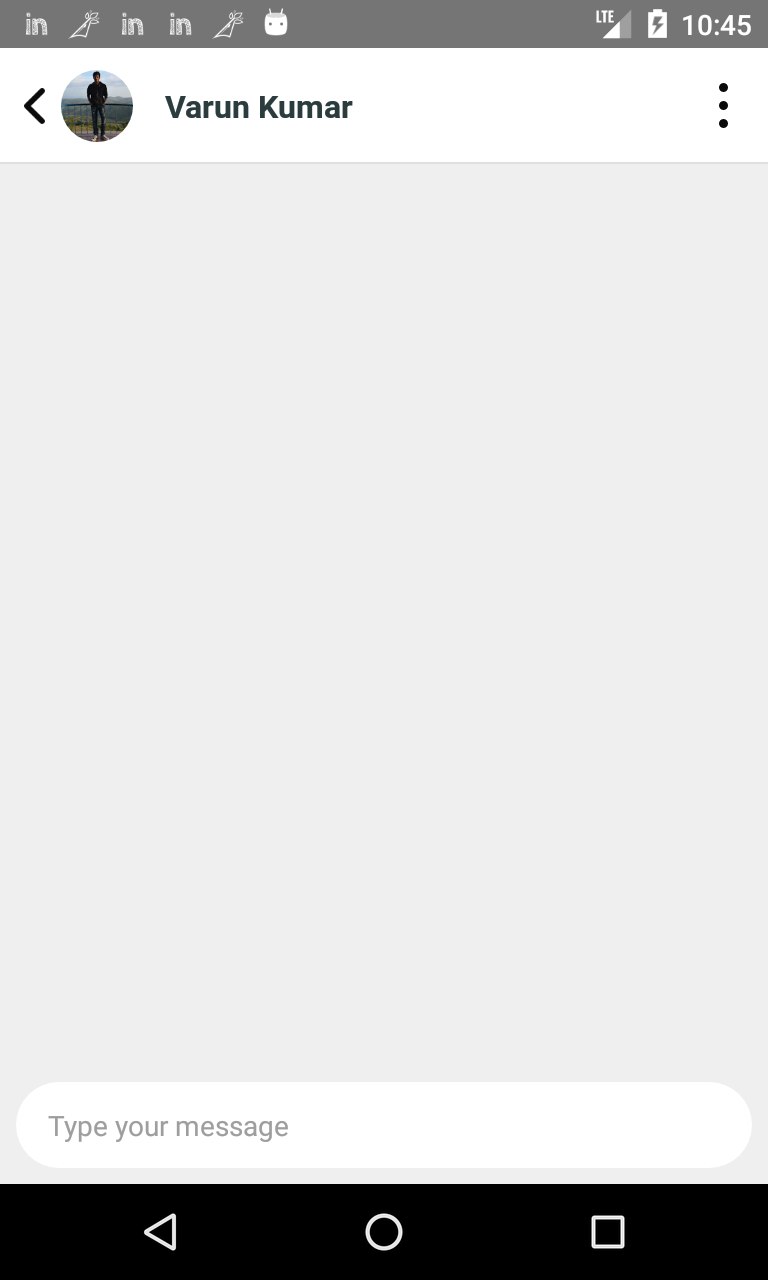
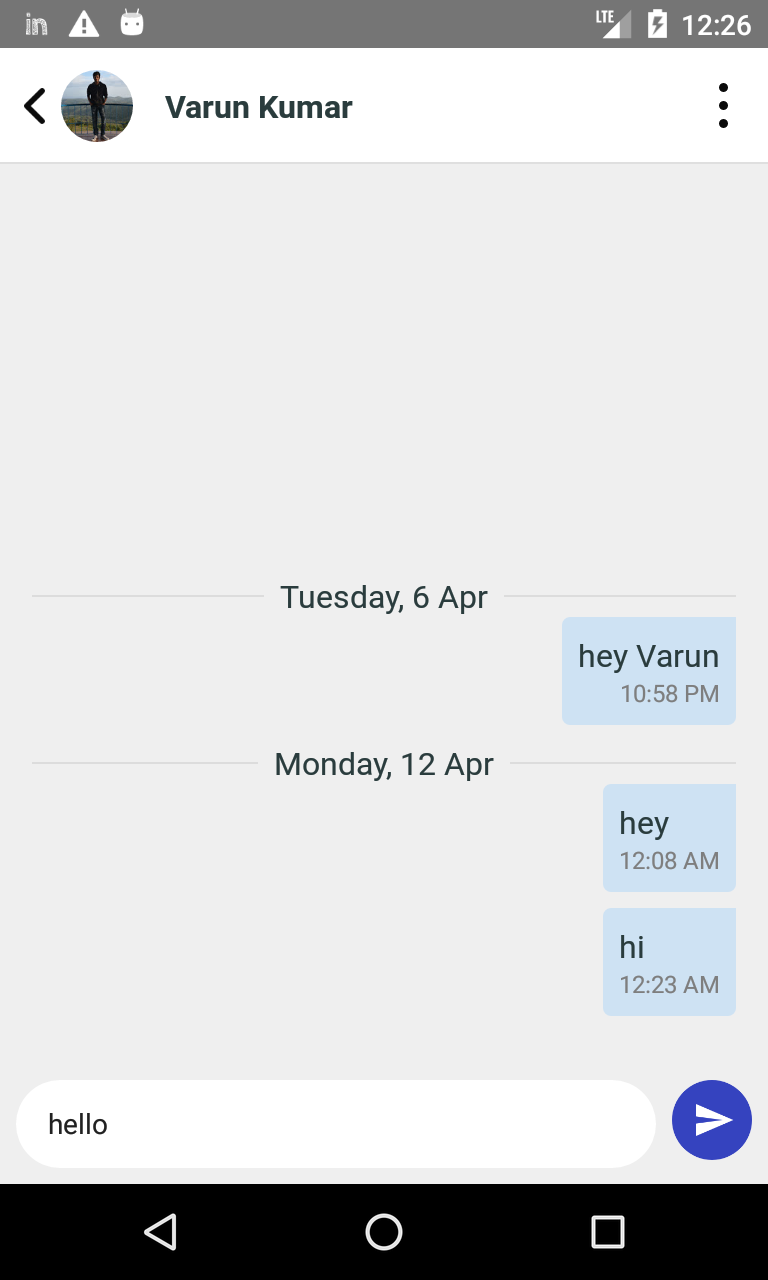
displaying chat bubbles in ChatDetails

diff --git a/src/components/chat/ChatDetails.js b/src/components/chat/ChatDetails.js
@@ -1,4 +1,4 @@
-import React, { useState } from 'react';
+import React, { useState, useEffect } from 'react';
 import { SafeAreaView, StyleSheet, View, Image, FlatList } from 'react-native';
 import firestore from '@react-native-firebase/firestore';
 import auth from '@react-native-firebase/auth';
@@ -11,19 +11,124 @@ import Screens from '../../common/Screens';
 import {
   CustomImageButton,
   NavigationHeader,
-  ThreeDotsMenuComponent
+  ThreeDotsMenuComponent,
+  CustomActivityIndicator
 } from '../lib';
 import { backIcon, logoutIcon, threeDotsMenuIcon } from '../../images';
 import { goBack } from '../../utils/navigation';
 import ChatInput from './ChatInput';
 import { FIRESTORE_COLLECTIONS, MESSAGE_TYPE } from '../../utils/constants';
 import { logErrorWithMessage } from '../../utils/logger';
+import ChatMessageFlatListItem from './ChatMessageFlatListItem';
+
+const MESSAGE_LIMIT = 15;
+
+// only last 15 (MESSAGE_LIMIT) are listened in real time
+// this function is responsible for merging recent chats (retrieved via live listener)
+const getMergedRecentChats = (previousRecentChats, recentChats) => {
+  if (previousRecentChats.length > 0) {
+    const newRecentChats = [];
+    for (let i = 0; i < recentChats.length; i++) {
+      if (recentChats[i].messageId === previousRecentChats[0].messageId) {
+        break;
+      }
+      newRecentChats.push(recentChats[i]);
+    }
+    return [...newRecentChats, ...previousRecentChats];
+  } else {
+    return recentChats;
+  }
+};
 
 const ChatDetails = ({ route }) => {
   const { chat } = route.params;
 
   const [menuVisible, setMenuVisible] = useState(false);
   const [inputMessage, setInputMessage] = useState('');
+
+  // Firestore cursor is not supported in query.onSnapshot so maintaining two chat list
+  // oldChats -> chat list via cursor, recentChats -> chat list via live listener
+  const [oldChats, setOldChats] = useState([]);
+  const [recentChats, setRecentChats] = useState([]);
+
+  // if true, show a loader at the top of chat list
+  const [moreChatsAvailable, setMoreChatsAvailable] = useState(true);
+
+  const getChatRef = () => {
+    const uid = auth().currentUser.uid;
+    return firestore()
+      .collection(FIRESTORE_COLLECTIONS.USERS)
+      .doc(uid)
+      .collection(FIRESTORE_COLLECTIONS.CHATS)
+      .doc(chat.id);
+  };
+
+  useEffect(() => {
+    const query = getChatRef()
+      .collection(FIRESTORE_COLLECTIONS.MESSAGES)
+      .orderBy('createdAt', 'desc')
+      .limit(MESSAGE_LIMIT);
+    const listener = query.onSnapshot(
+      querySnapshot => {
+        let chats = [];
+        querySnapshot.forEach(snapshot => {
+          chats.push(snapshot.data());
+        });
+        // merge recentChats & chats
+        setRecentChats(previousRecentChats =>
+          getMergedRecentChats(previousRecentChats, chats)
+        );
+        if (chats.length < MESSAGE_LIMIT) {
+          setMoreChatsAvailable(false);
+        }
+      },
+      error => {
+        logErrorWithMessage(error.message, 'ChatDetails.query.onSnapshot');
+      }
+    );
+
+    return () => {
+      // unsubscribe listener
+      listener();
+    };
+  }, []);
+
+  const onChatListEndReached = () => {
+    if (!moreChatsAvailable) {
+      return;
+    }
+    let startAfterTime;
+    if (oldChats.length > 0) {
+      startAfterTime = oldChats[oldChats.length - 1].createdAt;
+    } else if (recentChats.length > 0) {
+      startAfterTime = recentChats[recentChats.length - 1].createdAt;
+    } else {
+      setMoreChatsAvailable(false);
+      return;
+    }
+    // query data using cursor
+    getChatRef()
+      .startAfter(startAfterTime)
+      .limit(MESSAGE_LIMIT)
+      .get()
+      .then(querySnapshot => {
+        let chats = [];
+        querySnapshot.forEach(snapshot => {
+          chats.push(snapshot.data());
+        });
+        if (chats.length === 0) {
+          setMoreChatsAvailable(false);
+        } else {
+          setOldChats([...oldChats, ...chats]);
+        }
+      })
+      .catch(error => {
+        logErrorWithMessage(
+          error.message,
+          'ChatDetails.onChatListEndReached.getGuestChatMessagesQuery'
+        );
+      });
+  };
 
   const onMenuToggle = () => {
     setMenuVisible(!menuVisible);
@@ -60,12 +165,7 @@ const ChatDetails = ({ route }) => {
   const onDeleteChatPress = () => {};
 
   const onMessageSubmit = async () => {
-    const uid = auth().currentUser.uid;
-    const chatRef = firestore()
-      .collection(FIRESTORE_COLLECTIONS.USERS)
-      .doc(uid)
-      .collection(FIRESTORE_COLLECTIONS.CHATS)
-      .doc(chat.id);
+    const chatRef = getChatRef();
     // post message
     try {
       await chatRef.update({
@@ -78,7 +178,8 @@ const ChatDetails = ({ route }) => {
       await chatRef.collection(FIRESTORE_COLLECTIONS.MESSAGES).add({
         createdAt: new Date(),
         messageType: MESSAGE_TYPE.TEXT,
-        text: inputMessage
+        text: inputMessage,
+        messageId: chatRef.collection(FIRESTORE_COLLECTIONS.MESSAGES).doc().id
       });
       setInputMessage('');
     } catch (error) {
@@ -108,7 +209,24 @@ const ChatDetails = ({ route }) => {
           LeftComponent={renderLeftComponent()}
           RightComponent={renderRightComponent()}
         />
-        <FlatList contentContainerStyle={GenericStyles.p16} inverted />
+        <FlatList
+          contentContainerStyle={GenericStyles.p16}
+          inverted
+          data={[...recentChats, ...oldChats]}
+          onEndReached={onChatListEndReached}
+          onEndReachedThreshold={0.2}
+          keyExtractor={item => item.messageId}
+          ListFooterComponent={
+            moreChatsAvailable ? <CustomActivityIndicator /> : null
+          }
+          renderItem={({ item, index }) => (
+            <ChatMessageFlatListItem
+              item={item}
+              index={index}
+              chatList={[...recentChats, ...oldChats]}
+            />
+          )}
+        />
         <ChatInput
           onMessageInputChange={message => setInputMessage(message)}
           onMessageSubmit={onMessageSubmit}

diff --git a/src/components/chat/ChatBubble.js b/src/components/chat/ChatBubble.js
@@ -1,0 +1,72 @@
+import React from 'react';
+import { View, StyleSheet } from 'react-native';
+import PropTypes from 'prop-types';
+import dayjs from 'dayjs';
+
+import { CustomText } from '../lib';
+import Colors from '../../common/Colors';
+
+const getFormattedTime = time => {
+  return dayjs(time.toDate()).format('hh:mm A');
+};
+
+const ChatBubble = props => {
+  const { message } = props;
+
+  const { text, createdAt } = message;
+
+  const isHost = true;
+
+  return (
+    <View>
+      <View
+        style={[
+          styles.container,
+          isHost ? styles.hostContainer : styles.guestContainer
+        ]}
+      >
+        <CustomText style={styles.message}>{text}</CustomText>
+        <CustomText style={styles.time}>
+          {getFormattedTime(createdAt)}
+        </CustomText>
+      </View>
+    </View>
+  );
+};
+
+ChatBubble.propTypes = {
+  message: PropTypes.object.isRequired
+};
+
+const styles = StyleSheet.create({
+  container: {
+    marginBottom: 8,
+    padding: 8
+  },
+  hostContainer: {
+    borderTopLeftRadius: 4,
+    borderBottomLeftRadius: 4,
+    borderBottomRightRadius: 4,
+    alignSelf: 'flex-end',
+    backgroundColor: Colors.LIGHT_BLUE,
+    marginLeft: 32
+  },
+  guestContainer: {
+    borderTopRightRadius: 4,
+    borderBottomRightRadius: 4,
+    borderBottomLeftRadius: 4,
+    alignSelf: 'flex-start',
+    backgroundColor: Colors.SILVER,
+    marginRight: 32
+  },
+  message: {
+    color: Colors.BLACK
+  },
+  time: {
+    fontSize: 12,
+    color: Colors.DARK_GREY2,
+    alignSelf: 'flex-end'
+  }
+});
+
+export default ChatBubble;

diff --git a/src/components/chat/ChatMessageFlatListItem.js b/src/components/chat/ChatMessageFlatListItem.js
@@ -1,0 +1,42 @@
+import React from 'react';
+import PropTypes from 'prop-types';
+import { View } from 'react-native';
+import dayjs from 'dayjs';
+
+import ChatMessageStrip from './ChatMessageStrip';
+import ChatBubble from './ChatBubble';
+
+const ChatMessageFlatListItem = props => {
+  const { item, index, chatList } = props;
+
+  const previousItem = chatList[index + 1];
+  const currentMessageDate = item.createdAt.toDate();
+
+  // for very 1st message, previous item will be undefined
+  if (previousItem) {
+    const previousMessageDate = previousItem.createdAt.toDate();
+
+    // don't show date when current & previous chat message are from same date
+    if (
+      dayjs(previousMessageDate).date() === dayjs(currentMessageDate).date()
+    ) {
+      return <ChatBubble message={item} />;
+    }
+  }
+  return (
+    <View>
+      <ChatMessageStrip
+        message={dayjs(currentMessageDate).format('dddd, D MMM')}
+      />
+      <ChatBubble message={item} />
+    </View>
+  );
+};
+
+ChatMessageFlatListItem.propTypes = {
+  index: PropTypes.number.isRequired,
+  item: PropTypes.object.isRequired,
+  chatList: PropTypes.array.isRequired
+};
+
+export default ChatMessageFlatListItem;

diff --git a/src/components/chat/ChatMessageStrip.js b/src/components/chat/ChatMessageStrip.js
@@ -1,0 +1,34 @@
+import React from 'react';
+import { StyleSheet, View } from 'react-native';
+import PropTypes from 'prop-types';
+
+import GenericStyles from '../../styles/GenericStyles';
+import Colors from '../../common/Colors';
+
+import { CustomText } from '../lib';
+
+const ChatMessageStrip = ({ message }) => {
+  return (
+    <View style={[GenericStyles.centerAlignedRow, GenericStyles.mb12]}>
+      <View style={[GenericStyles.fill, styles.greyBar]} />
+      <CustomText style={styles.mh8}>{message}</CustomText>
+      <View style={[GenericStyles.fill, styles.greyBar]} />
+    </View>
+  );
+};
+
+ChatMessageStrip.propTypes = {
+  message: PropTypes.string.isRequired
+};
+
+const styles = StyleSheet.create({
+  mh8: {
+    marginHorizontal: 8
+  },
+  greyBar: {
+    height: 1,
+    backgroundColor: Colors.GREY
+  }
+});
+
+export default ChatMessageStrip;

diff --git a/src/common/Colors.js b/src/common/Colors.js
@@ -8,7 +8,9 @@ const Colors = {
   TRANSPARENT: 'transparent',
   SEMI_TRANSPARENT: 'rgba(0,0,0,0.5)',
   SILVER: '#efefef',
-  BLUE: '#3543bf'
+  BLUE: '#3543bf',
+  LIGHT_BLUE: '#cee2f3',
+  DARK_GREY2: '#7e7e7e'
 };
 
 export default Colors;

diff --git a/src/components/lib/CustomText.js b/src/components/lib/CustomText.js
@@ -21,7 +21,7 @@ const CustomText = props => {
 const styles = StyleSheet.create({
   style: {
     color: Colors.BLACK,
-    fontSize: 18
+    fontSize: 16
   },
   fontFamilyRoboto: {
     fontFamily: 'Roboto'
